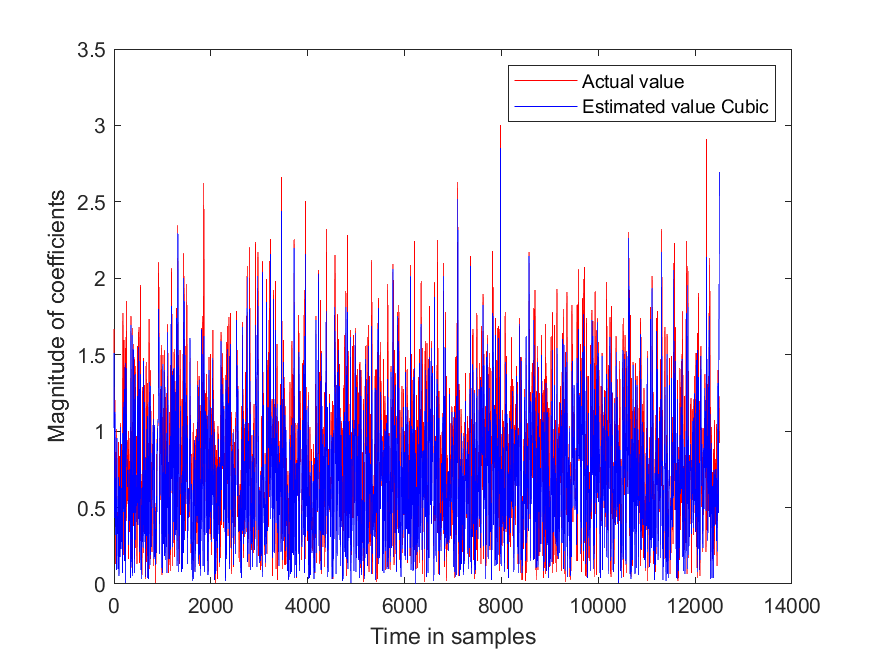
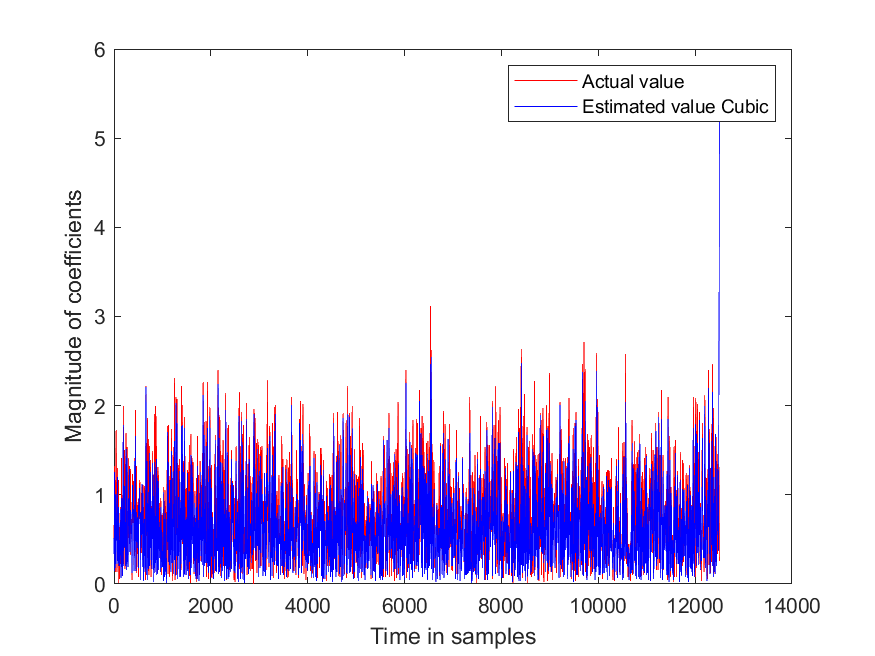
ghjghj

Changed region(s): [[0.0309, 0.2744, 0.8331, 0.8841], [0.0926, 0.1829, 0.1234, 0.2134], [0.0926, 0.061, 0.1234, 0.0915]]

diff --git a/EL7041 Comu Avan/P2/new/8PSK/PSK8_figures.m b/EL7041 Comu Avan/P2/new/8PSK/PSK8_figures.m
@@ -9,17 +9,18 @@ clear all;
 snrr=[-2:1:30];
 
 noise = 10; %-5, 0 , 10, 30
-reflec = 40; %5, 40
-vel = 80; % 30, 80
-fport = 5900; %700, 5900
-N=10; %5, 10, 20
+reflec = 5; %5, 40
+vel = 30; % 30, 80
+fport = 700; %700, 5900
+N=20; %5, 10, 20
 
 Bits = 10^5;
 bps = 8;
 %bits = randi([0 1],Bits,1);
 %nb = Bits/2; %numero de símbolos, cada símbolo tamaño 2 
 %nb=1593; %number of symbols symbols
-nb = Bits/bps;
+%nb = Bits/bps;
+nb = 30000;
 
 pilot=1+1i; % pilot symbol
 
